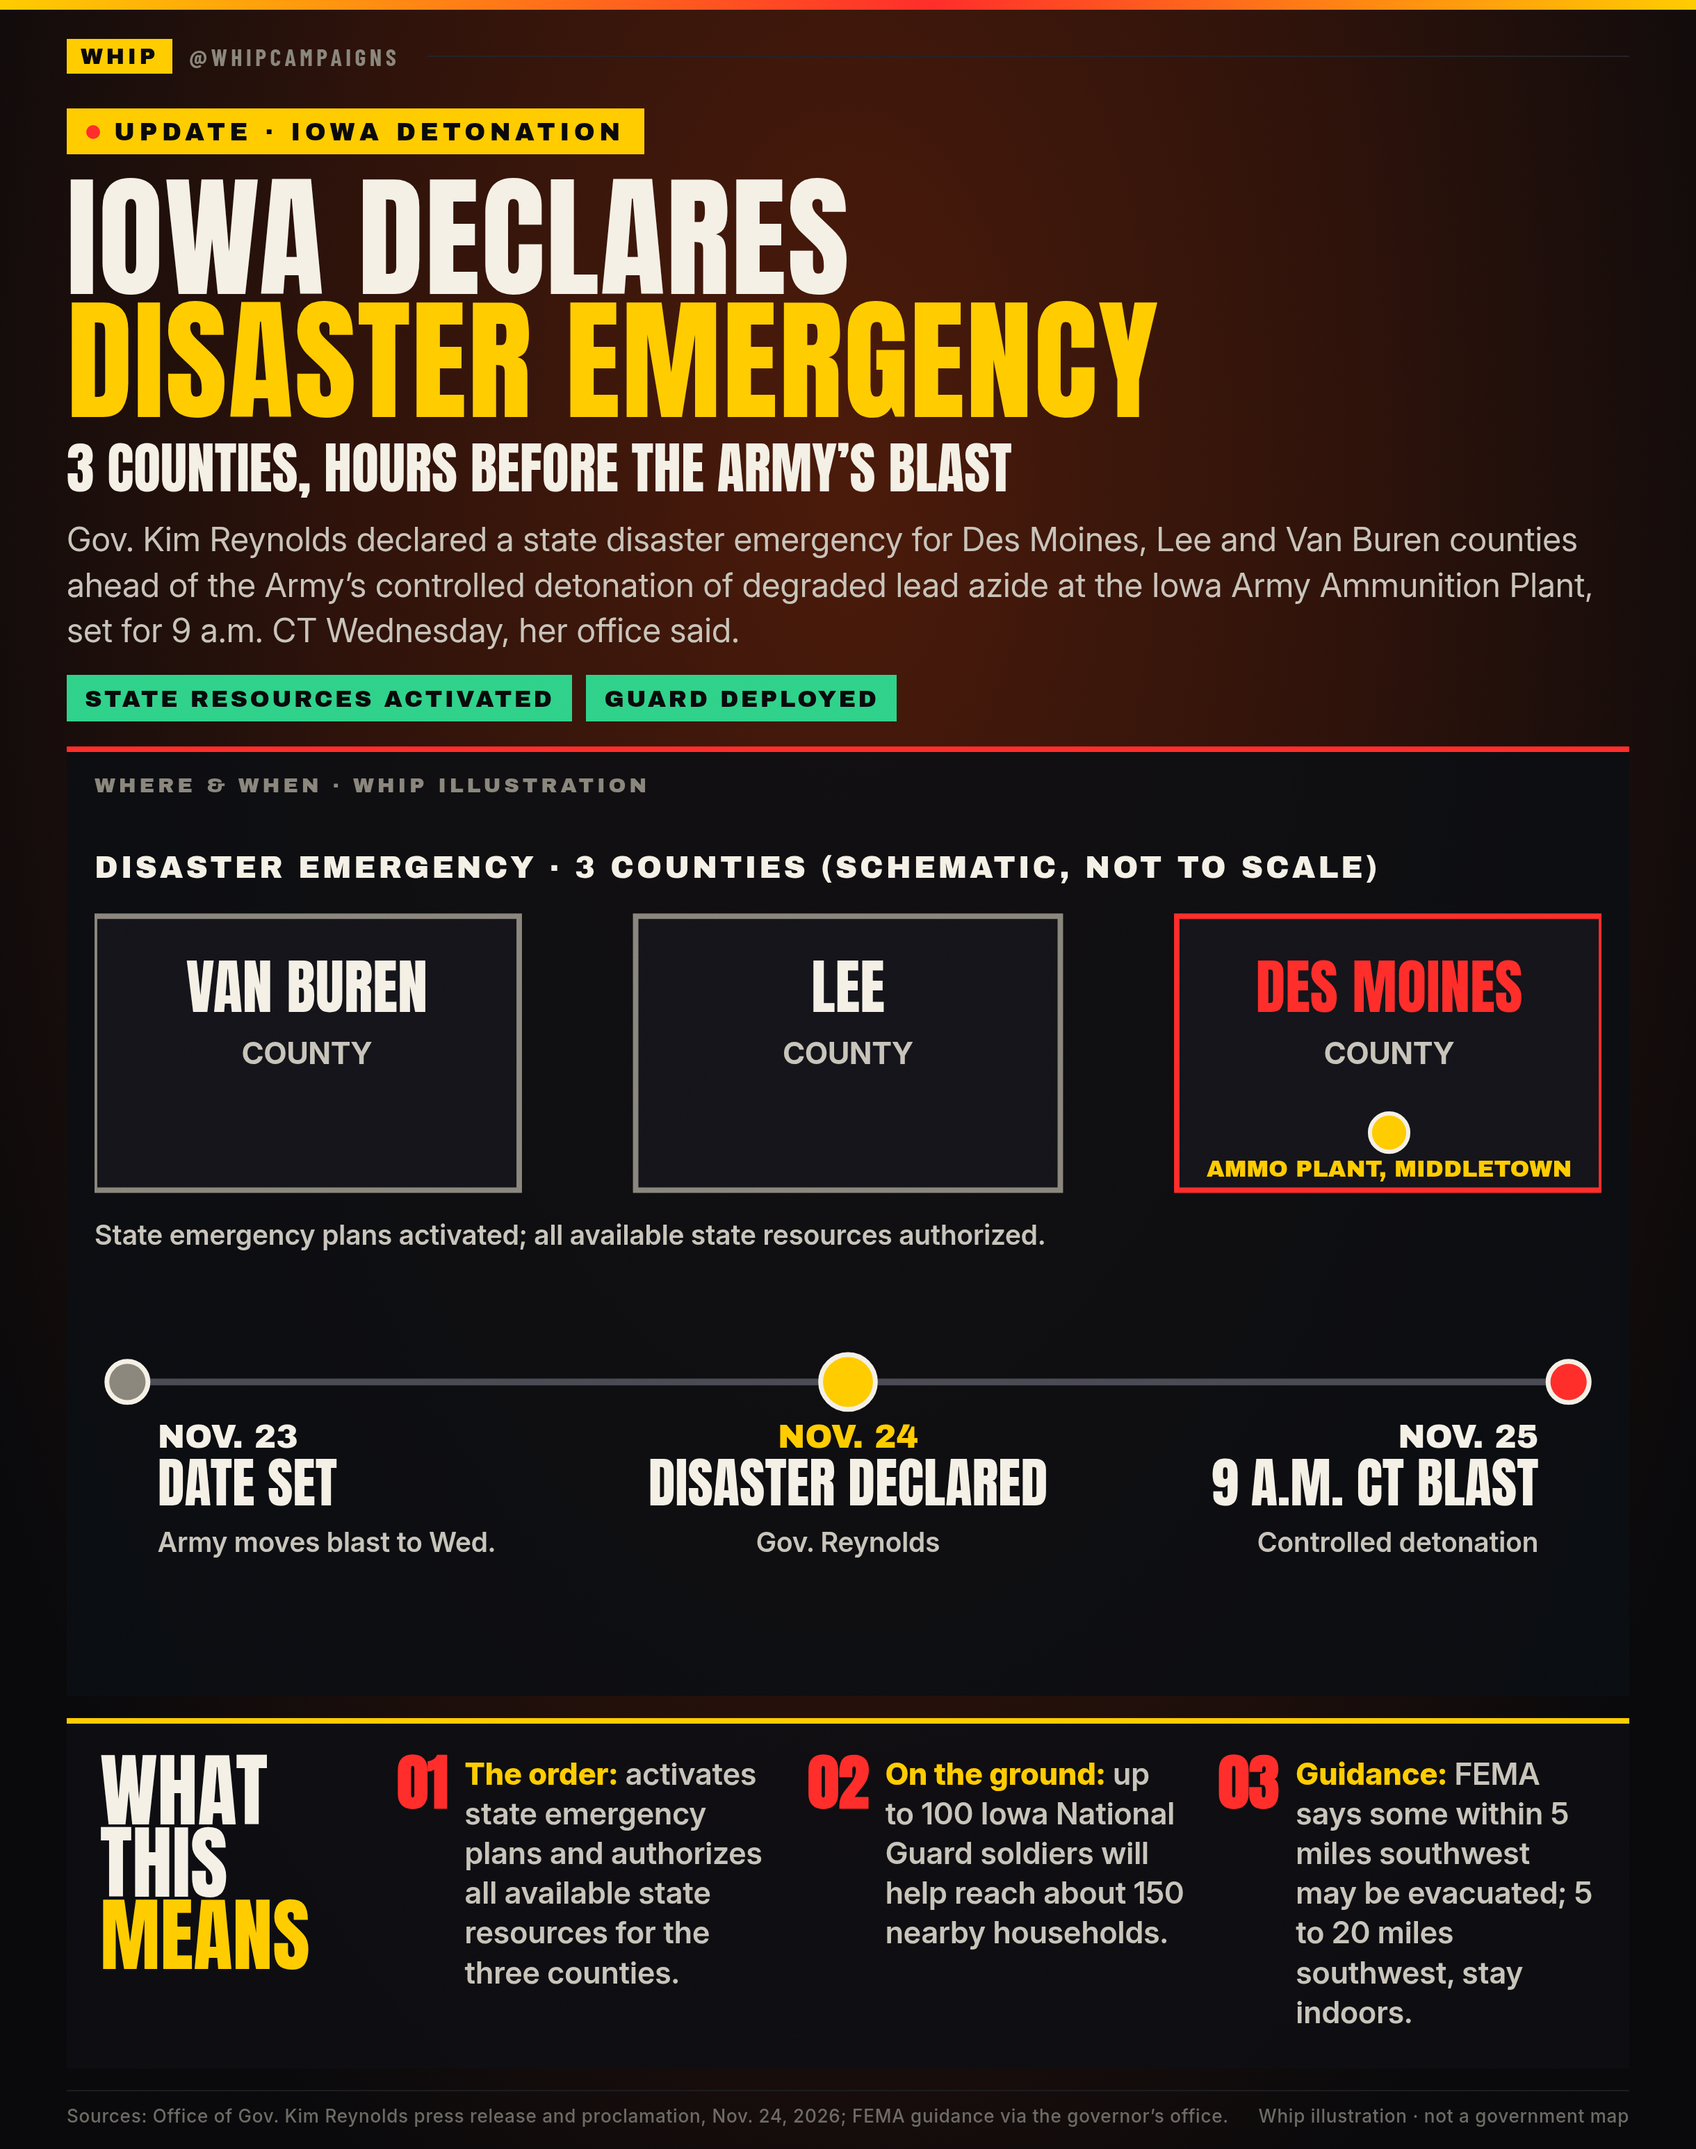
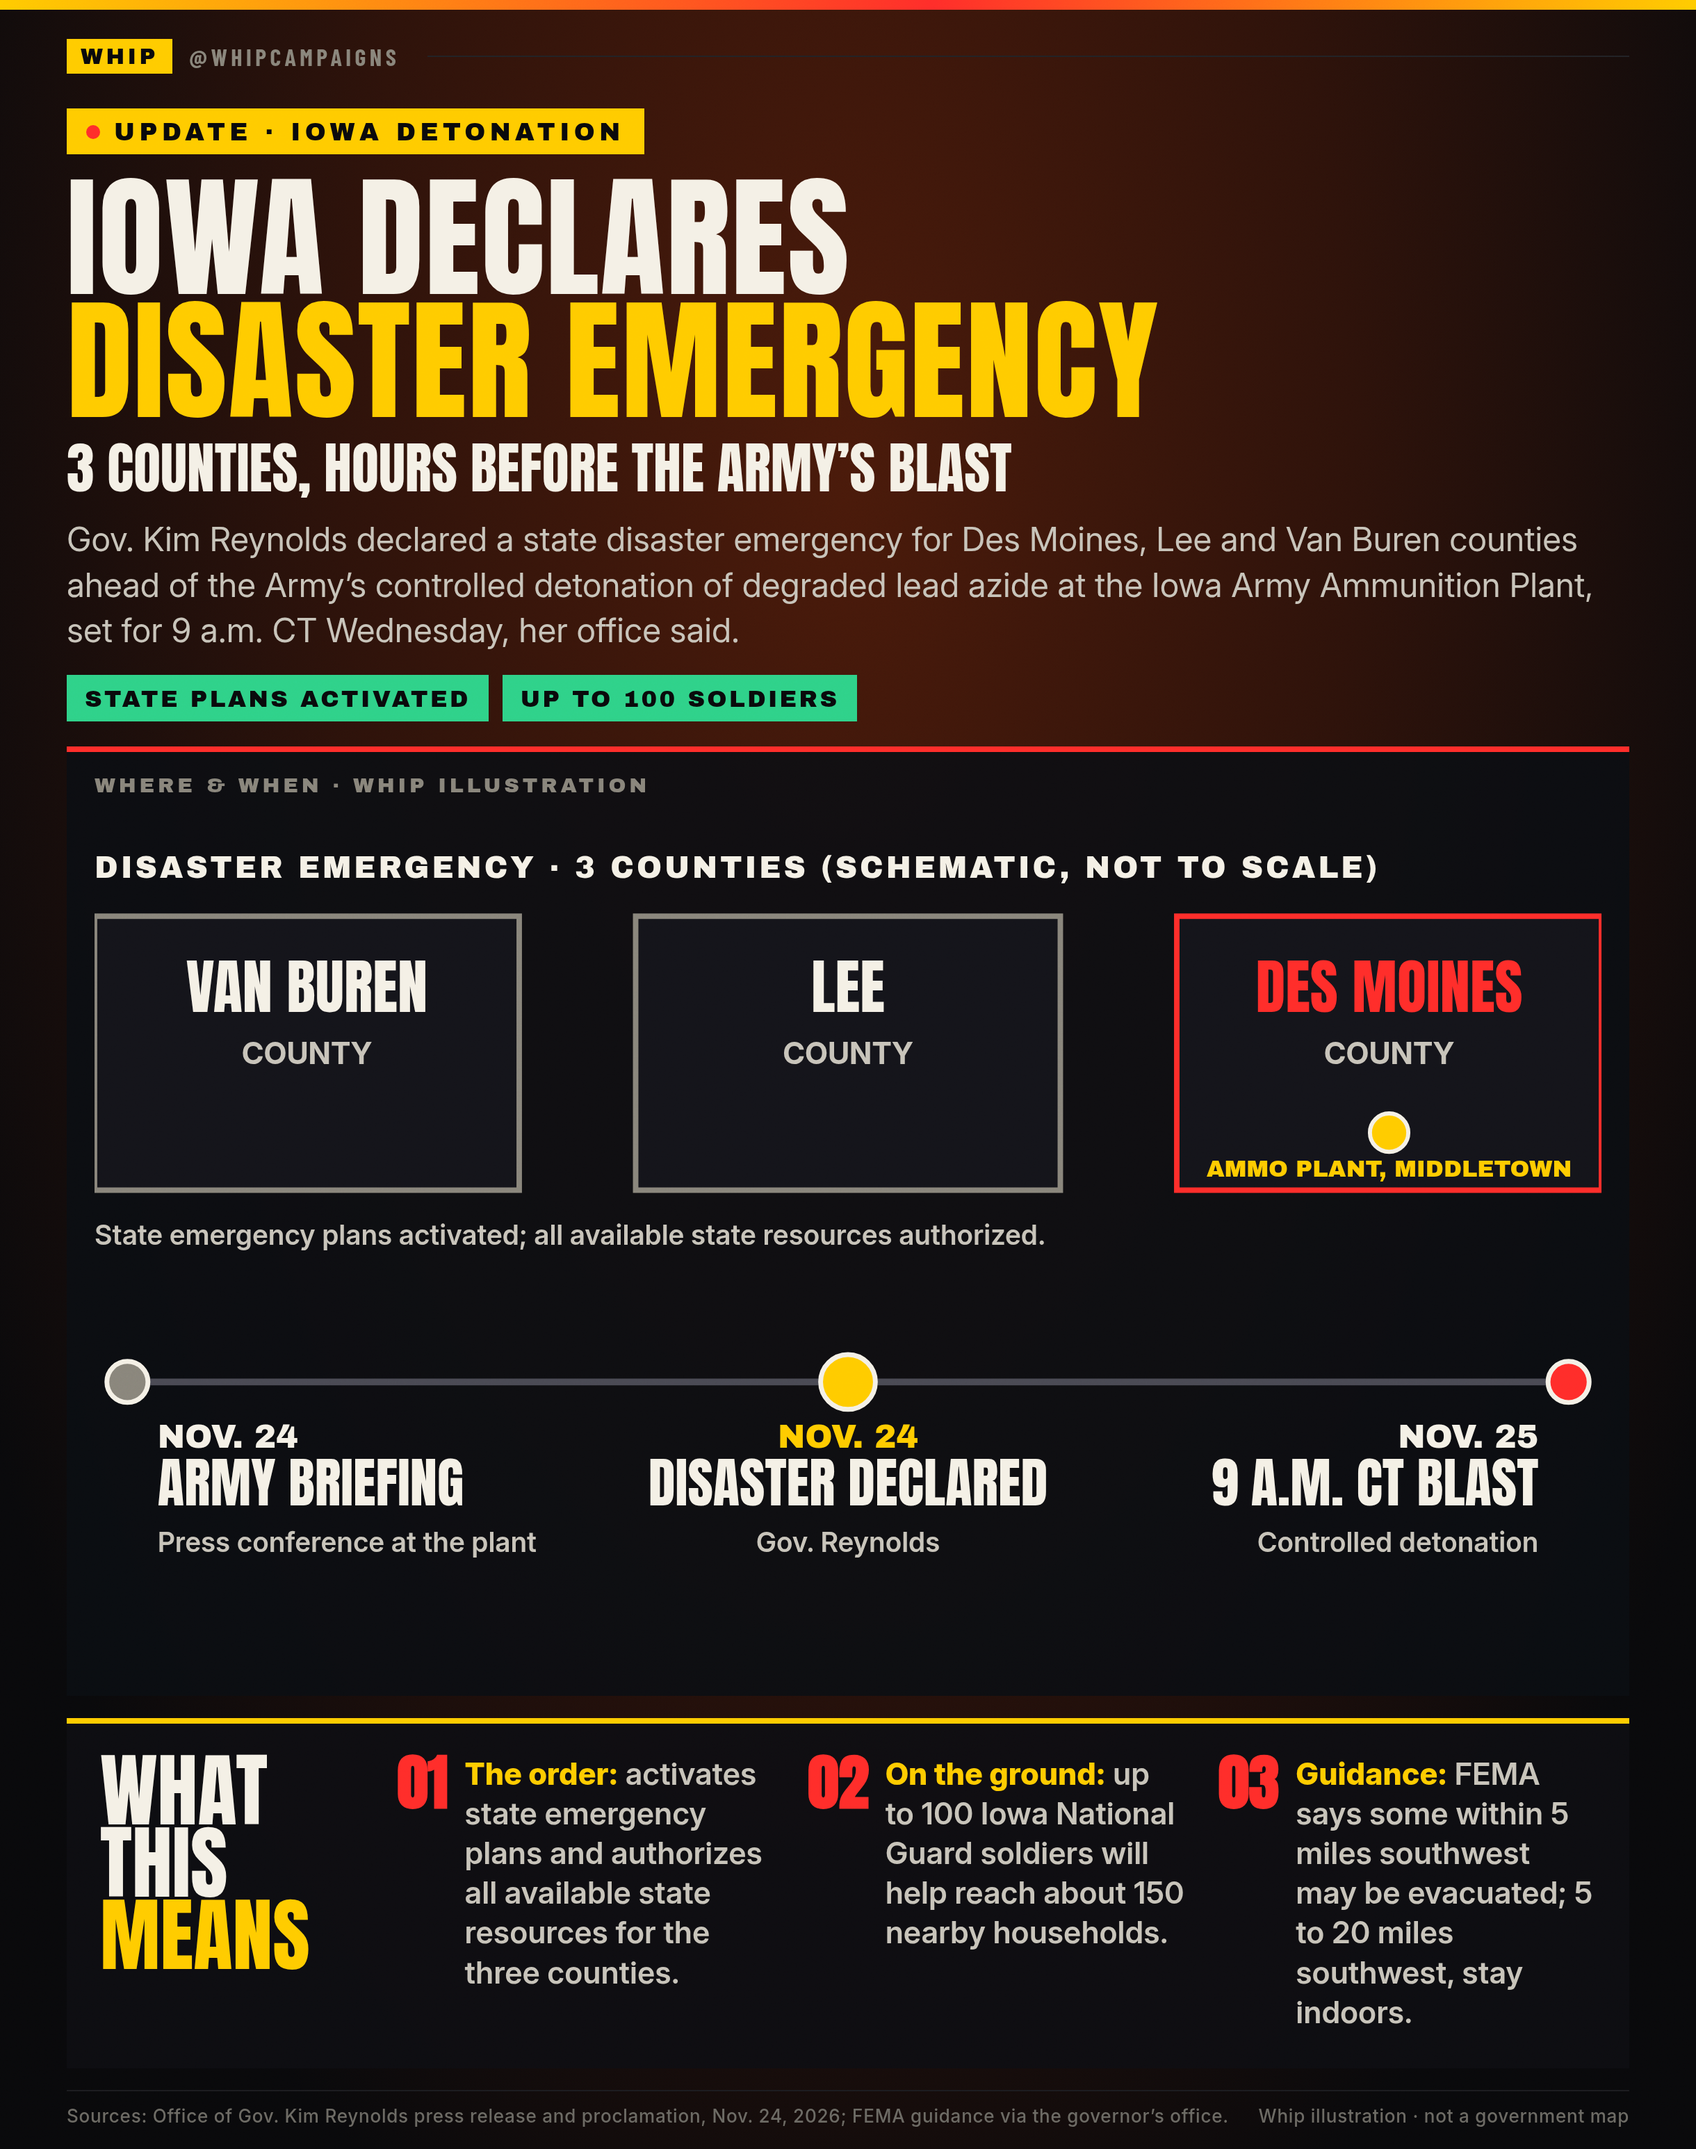
Fix Iowa disaster UPDATE card: chips and Nov. 24 briefing timeline

Changed region(s): [[0.0934, 0.652, 0.3115, 0.7451], [0.1246, 0.3105, 0.5295, 0.3415]]

diff --git a/breaking/2026-11-24-iowa-disaster-proclamation/make_card.py b/breaking/2026-11-24-iowa-disaster-proclamation/make_card.py
@@ -43,7 +43,7 @@ p.append(f'<text x="0" y="300" font-family="Inter" font-size="20" font-weight="6
 ty = 400
 p.append(f'<line x1="24" y1="{ty}" x2="{GW-24}" y2="{ty}" stroke="#4a4a54" stroke-width="5"/>')
 steps = [
-    ("NOV. 23", "DATE SET", "Army moves blast to Wed.", MUTE, 24),
+    ("NOV. 24", "ARMY BRIEFING", "Press conference at the plant", MUTE, 24),
     ("NOV. 24", "DISASTER DECLARED", "Gov. Reynolds", YEL, GW / 2),
     ("NOV. 25", "9 A.M. CT BLAST", "Controlled detonation", RED, GW - 24),
 ]
@@ -99,7 +99,7 @@ body{{font-family:'Barlow Condensed',sans-serif;background:radial-gradient(ellip
     <div class="h1">IOWA DECLARES<br><span class="y">DISASTER EMERGENCY</span></div>
     <div class="h2">3 COUNTIES, HOURS BEFORE THE ARMY&rsquo;S BLAST</div>
     <div class="att">Gov. Kim Reynolds declared a state disaster emergency for Des Moines, Lee and Van Buren counties ahead of the Army&rsquo;s controlled detonation of degraded lead azide at the Iowa Army Ammunition Plant, set for 9 a.m. CT Wednesday, her office said.</div>
-    <div class="chips"><span>State resources activated</span><span>Guard deployed</span></div>
+    <div class="chips"><span>State plans activated</span><span>Up to 100 soldiers</span></div>
   </div>
   <div class="panel">
     <div class="ph">WHERE &amp; WHEN &middot; WHIP ILLUSTRATION</div>
